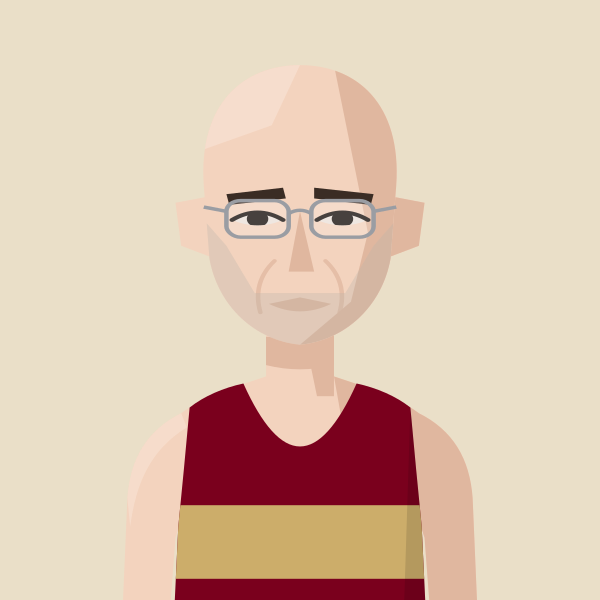
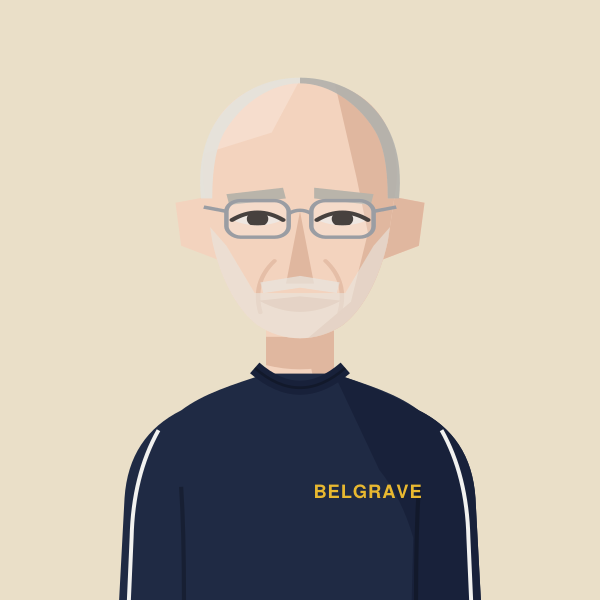
Alan Mead: team-manager portrait in navy Belgrave sweater
Claude-Session: https://claude.ai/code/session_01MgmDWhFqnSSnP4iBLKXUZC

diff --git a/files/index.html b/files/index.html
@@ -887,7 +887,7 @@ const portraitFile=(name,club)=>{const k=normalizeNameForCompare(name||'').repla
 const portraitClubOf=(name,clubs)=>{for(const c of clubs||[]){if(c&&portraitFile(name,c))return c;}return null;}; /* first of these clubs we have a portrait for */
 // Athlete header figure: superstar portrait if we have one, else a grey runner in the club vest, else the plain vest icon
 // Changes whenever any portrait changes (set by tools/build_og.py), so browsers fetch fresh images instead of old cached ones
-const PORTRAIT_V='33d50a44';const PORTRAIT_WOMEN='abbey-brooke,abbie-bulbulian,adele-prince,aimee-hargreaves,aisling-ahern,alex-brown,alex-gandee,alex-marginean,alex-miller,alexa-parker,alexandra-barbour,alice-braham,alice-bridger-morales,alice-crane,alice-martin,alice-reed,alice-smith,alison-purnell,alison-thomson,amelia-pettitt,amy-clements,andrea-barber,anika-schwarze-chintapatla,anna-garnier,anna-garnier-hw,anna-sharp,annabel-hobday,annabelle-hadlow,anne-hegvold,annmarie-seymour,ava-mcandie,becky-briggs,bethan-goddard,bethanie-murray,bethany-brown,betsy-griffiths,billie-mcclosky,camilla-barden,caoimhe-nic-fhogartaigh,carolyne-baxter,catherine-bryson,catherine-eastham,catherine-kandie,cathy-ansell,charlotte-griffiths,chloe-beckett,chloe-tighe,chrissie-wellington,claire-grima,clara-pettit,clare-elms,clare-pauzers,dillan-quinn,dorchie-cockerell,eilidh-hide,elinor-skinner,eliza-grant,elizabeth-apsley,elizabeth-stavreski,ella-fennelly,ella-king-powrie,ella-may-hards,ella-newton,ellen-weir,ellie-brown,ellie-freeden,eloise-bull,emilie-arnoux,emily-barrett,emily-bradley,emily-lowery,emily-robbins,emma-bond,emma-gordon,emma-howsham,emma-lord,emma-rowland,estle-viljoen,evie-warren,felicity-cole,felicity-harrison,felicity-hayward,fi-maddocks,fiona-clark,fiona-de-mauny,florence-wiggins,gabby-collison,gabriel-reynolds,gemma-newport,genevieve-blanch,georgia-curry,georgie-bruinvels,georgie-fenn,georgie-furze,georgie-grgec,gina-galbraith,grace-leyland,grace-richardson,hannah-edwards,hannah-english,hayley-munn,hayley-munn-cc,heather-statham,heather-statham-cc,helen-alsop,helena-corbin,helena-keenan,holly-nixon,holly-pan,imogen-mackie,imogen-wolsey,iona-cousland,isabel-bradley,isabel-brinsden,isabel-hodder,isabelle-pickett,jennifer-nandi,jennifer-smith,jess-reed,jess-saunders,jess-winfield,jessica-davies,jessica-lowe,jodie-favell,jon-hobbs,josephine-rhodes,julia-bleasdale,julia-wedmore,juliet-hodder,juliette-clark,jurgita-levertaviciute,justine-lynch,karen-fenner,karen-xiang,karina-box,kate-axford,kate-williams,kathy-sharpe,katie-ellen-french,katie-good,katie-snowden,katy-hedgethorne,kitty-shepherd-cross,kristina-popadich,lara-bromilow,lara-mangan,laura-goodson,laura-miles,lauren-major,lea-adamson,lily-newton,lisa-bailey,lisa-thomas,lisa-thomas-hw,lizzie-goldie-scot,louise-cooper,lucy-jones,lucy-macalister,lucy-peters,lydia-blackmore,lydia-gallyer-barnett,maddie-mastrolonardo,maddy-whitman,maeve-kenny,margaret-coogan,martina-conner,mary-james,mary-setyabule,matilde-lomba,megan-gildea,mel-wilkins,mhairi-hall,mimi-corden-lloyd,molly-oconnor,molly-smith,monika-gajek,naomi-lenane,natalie-beadle,natalie-seymour,natasha-lodge,niamh-thompson,nicky-hayes,nicola-cartlidge,nicola-douglas,nikki-haines,nikki-sturzaker,nina-mills,olivia-papaioannou,olivia-stillman,orna-mcginley,pamela-mchutchon,patricia-walker,patrizia-gnoato,penny-oliver,rachel-brown,rebecca-barrow,rebekah-edgar,rosie-powell,ruby-carter,ruby-whyte-wilding,ruby-woolfe,sally-urquhart,sally-young,sally-young-slh,sam-whiting,samantha-munday,sarah-astin,sarah-dewhirst,sarah-grover,sarah-hanley,sarah-holt,sarah-murphy,sarah-palmer,sarah-palmer-ran,sarah-riceman,sarah-young,saron-haileselase,serena-carter,sophie-cowper,sophie-harris,sophie-hicks,sophie-tooley,stacey-ward,steph-hewitt,steph-mccall,steph-mccall-cc,steph-mccall-slh,steph-mitchell,suzanne-swaine,suze-spalding,suzie-harvey,suzy-whatmough,syreeta-stracey,teresa-murphy,tilly-heaton,tilly-heaton-bel,tish-jones,vic-cartwright,vicky-clarke,vicky-edwards,victoria-barthelmess,victoria-buck,vikki-filsell,zoe-doyle,zoe-macdonald,zuzana-nemeckova';const PORTRAIT_MEN='aaron-wilson,abdulla-elsadig,adam-leane,adrian-major,adrien-royer,alan-black,alan-mead,alex-brecker,alex-bruce-littlewood,alex-gutteridge,alex-harris,alex-howard,alex-janiaud,alex-lee,alex-lennon,alex-mills,alex-milne,alex-morales,alex-robinson,alex-yee,alexander-marks,amittai-ben-israel,andrew-cumine,andrew-green,andrew-penney,andrew-perfect,andrew-simms,andrew-warburton,andrius-jaksevicius,andy-coley-maud,andy-coley-maud-cc,andy-fyfe,andy-north,andy-paton,andy-weir,angus-butler,angus-lamb,anisse-ismaili,arlo-ludewick,arne-dumez,arthur-peel,ashley-goncalves,barnaby-day,barry-collins,barry-sawyer,ben-clarke,ben-coughlan,ben-harding,ben-hurley,ben-ireland,ben-millar,ben-paviour,ben-pearce,ben-racle,ben-revill,ben-reynolds,ben-scott,ben-toomer,benedict-whitby,benjamin-hilson,bernie-ford,bill-kerr,bill-weller,bill-weller-wal,bob-harrison,bob-holt,bob-lunnon,bob-rayman,bob-smith,bradley-courtney-pinn,brandon-dewar,brian-gorman,brian-wilder,caleb-hathaway,callum-stewart,cameron-dockerill,cameron-reilly,carl-delaney,charles-herrington,charlie-dabbs,charlie-dickinson,charlie-eastaugh,charlie-manning,charlie-pickett,charlie-rogers,charlie-sandison,charlie-walker,charlie-wyllie,che-compton,chris-busaileh,chris-busaileh-hhh,chris-greenwood,chris-keavey,chris-moss,chris-steer,chris-threadgold,chris-warren,christian-lee,christopher-parker,clive-gilby,clive-shippen,colin-high,colin-pearson,conall-mcnally,conall-whelan,craig-ruddy,dame-dibaba,dan-cliffe,dan-pettitt,daniel-shaw,daniel-wolff,darren-mead,dave-beard,dave-beaver,dave-clarke,dave-glassborow,dave-hill,dave-holt,dave-taylor,david-anderson,david-bowers,david-grima,david-north,david-ogden,david-symons,david-walsh,david-williams,deron-fagan,dick-piotrowski,dimos-evangelidis,dom-nolan,dominic-kiralyfi,don-anderson,don-faircloth,don-maclean,doug-maughan,duncan-rimmer,dylan-evans,dylan-mitchard,ed-brewer,ed-catmur,ed-gibson,ed-mallett,ed-prickett,eddie-herridge,eddie-jodrell,eddie-rolls,edward-chuck,eoin-brady,eoin-molloy,ethan-mccolgan,falilou-kebe,findlay-dyer,finn-johnson,fintan-pearce,frank-tickner,frank-ward,fred-paget,fred-slemeck,fred-stebbings,freddie-hessian,garret-lee,gary-ribbons,gary-ribbons-ee,gary-staines,gary-staines-bel,gavin-eccles,geoff-biscoe,geoff-jerwood,geoff-north,george-cotton,george-gathercole,george-jackson,george-loxton,george-mallett,george-ogden,gerry-adams,gerry-north,glen-keegan,gordon-pearce,graham-macky,grenville-tuck,harrison-hayman,harry-guttridge,hector-revill,henry-hart,henry-silverstein,hugo-hewitt,huw-lobb,ian-acreman,ian-crowe-wright,ian-ellwood,ian-harkness,indy-barnes,isaac-lutaya,isaac-parker,jack-brotchie,jack-dickson,jack-dormer,jack-hampshire,jack-harrison,jack-hobden,jack-kavanagh,jack-millar,jack-ramm,jack-woods,jacob-brockmann,jake-simmonds,james-bartram,james-blackwood,james-bowler,james-estall,james-ewing,james-fox,james-hancock,james-harvey,james-hoad,james-kelly,james-mcmullan,james-murray,james-nutt,james-preston,james-roberts,james-stockings,james-ward,james-wootton,jamie-crowe,jamie-parkinson,jared-martin,jean-paul-wright,jeff-cunningham,jeremy-dempsey,jermaine-mays,jerry-watson,jim-allchin,jim-rimmer,joachim-wolf,joe-english,joe-hartley,john-baker,john-bicourt,john-bromley,john-davies,john-dear,john-foss,john-foxall,john-gilbert,john-gladwin,john-hutchins,john-kendall,john-kimaiyo,john-lee,john-lethbridge,john-mather,john-moore,john-roberts,john-sanderson,john-snowden,john-stow,john-sullivan,john-thresher,jon-pepper,jon-pepper-slh,jon-phillips,jon-solly,jonathan-cocker,jonathan-collier,jonathan-cornish,jonathan-ratcliffe,jonathan-tipper,jonny-neville,jonny-scott,jordan-weaver,josh-mitchell,josh-snow,josh-trigwell,jules-gevers,junior-galley,justin-chaston,justin-reid,kassa-tadesse,keith-newton,ken-penney,ken-penney-cro,kevin-nash,kevin-quinn,kevin-sturman,kieran-barnes,kieran-white,knut-hegvold,knut-hegvold-bel,larry-ryan,lawrence-avery,lee-lintern,leo-coy,les-presland,les-presland-sur,lewis-lloyd,liam-burthem,lionel-mann,lloyd-kempson,luke-caldwell,macgregor-cox,mack-downie,malachi-byansi,marcello-bizio,marcelo-fortes,marco-mazzotta,mark-anderson,mark-miles,mark-sinclair,mark-tennyson,mark-waller,martin-dent,martin-duff,martin-lake,martin-lewington,martin-shore,mathew-speed,matt-chaston,matt-jones,matt-wood,matt-yates,matthew-edgar,matthew-houchell,matthew-thomas,matthew-varley,max-bloor,max-heyden,max-milarvie,max-nicholls,michael-baker,michael-mccarthy,mick-gowan,mick-woods,mike-beevor,mike-boyle,mike-cummings,mike-farmery,mike-fuller,mike-hayes,mike-kortenray,mike-nouch,mohammed-ismail,monty-hudson,morgan-roberts,nathan-visick,neil-chisholm,neil-phillips,neil-speaight,neil-wilson,nic-lukies,nick-acfield,nick-altmann,nick-bester,nick-bester-hhh,nick-buckle,nick-bundle,nick-goolab,nick-lightfoot,nick-morris,nick-torry,noah-fernandez,norman-stairs,oli-carrington,oliver-carrington,oliver-fox,oliver-reynolds,oliver-young,ollie-foote,ollie-garrod,olly-buck,owen-hind,paddy-roddy,pancho-panchev,paskar-owor,pat-newell,patrick-mcdougall,paul-calver,paul-cheetham,paul-evans,paul-freary,paul-magner,paul-pollock,paul-sanderson,paul-sanderson-wok,pete-carton,pete-gardner,peter-clarke,peter-giles,peter-giles-thh,peter-lighting,phil-carstairs,phil-sanders,phil-sesemann,phil-swinburn,phil-wicks,phil-woodford-smith,raj-paranandi,ralph-street,ranjit-bhatia,ray-foley,reece-edwards,rhys-boorman,rian-mccawley,richard-ashe,richard-giles,richard-henderson,richard-langley,richard-mcdowell,richard-ollington,richard-partridge,richard-sun,richard-ward,rob-armstrong,rob-kelly,rob-tuer,robert-elphick,robert-laing,robert-norville,robert-peacock,robert-sesemann,robin-boon,robin-hudson,roger-alsop,roger-alsop-bel,roger-hackney,ron-clark,ron-linstead,ronan-tanguy,rory-mcmahon,rory-orsborn,ross-braden,ross-christie,rowan-board,rowan-crichton,russell-dessaix-chin,ryan-hickey,ryan-mccallister,sam-bramwell,sam-charlton,sam-gebreselassie,sam-haughian,sam-peters,sam-sommerville,sam-tyas,samuel-dames,samuel-wilcock,sean-cordon,sebastian-anthony,simon-baines,simon-coombes,simon-coppard,simon-fairbrother,simon-holmes,simon-rayner,simon-rayner-hw,simon-wade,simon-wade-hhh,simon-waterhouse,simon-williams,simon-wurr,sonny-nicoll,spencer-barden,stephen-mcleod,stephen-sharp,steve-badgery,steve-badgery-mit,steve-gardner,steve-jones,steve-smythe,steve-smythe-hhh,stuart-beaney,stuart-major,stuart-major-thh,stuart-mccallum,stuart-paton,terry-booth,thomas-dugre,thomas-gandee,thomas-gardner,thomas-renshaw,tim-alexander,tim-eglen,tim-lawrence,tim-watson,toby-cooke,toby-fletcher,tom-austin,tom-cheetham,tom-conlon,tom-davies,tom-gifford,tom-higgs,tom-jervis,tom-lole,tom-south,tom-thornley,tommy-taylor,tony-binda,tony-fairclough,tony-harran,trevor-hart,trevor-williams,valdis-pauzers,valentin-rigori,vic-maughan,wayne-oxborough,will-cockerell,will-lewis,will-marshall,will-scott,will-stockley,william-gardner,yacin-yusuf,zach-nolan';
+const PORTRAIT_V='cc9dfb6d';const PORTRAIT_WOMEN='abbey-brooke,abbie-bulbulian,adele-prince,aimee-hargreaves,aisling-ahern,alex-brown,alex-gandee,alex-marginean,alex-miller,alexa-parker,alexandra-barbour,alice-braham,alice-bridger-morales,alice-crane,alice-martin,alice-reed,alice-smith,alison-purnell,alison-thomson,amelia-pettitt,amy-clements,andrea-barber,anika-schwarze-chintapatla,anna-garnier,anna-garnier-hw,anna-sharp,annabel-hobday,annabelle-hadlow,anne-hegvold,annmarie-seymour,ava-mcandie,becky-briggs,bethan-goddard,bethanie-murray,bethany-brown,betsy-griffiths,billie-mcclosky,camilla-barden,caoimhe-nic-fhogartaigh,carolyne-baxter,catherine-bryson,catherine-eastham,catherine-kandie,cathy-ansell,charlotte-griffiths,chloe-beckett,chloe-tighe,chrissie-wellington,claire-grima,clara-pettit,clare-elms,clare-pauzers,dillan-quinn,dorchie-cockerell,eilidh-hide,elinor-skinner,eliza-grant,elizabeth-apsley,elizabeth-stavreski,ella-fennelly,ella-king-powrie,ella-may-hards,ella-newton,ellen-weir,ellie-brown,ellie-freeden,eloise-bull,emilie-arnoux,emily-barrett,emily-bradley,emily-lowery,emily-robbins,emma-bond,emma-gordon,emma-howsham,emma-lord,emma-rowland,estle-viljoen,evie-warren,felicity-cole,felicity-harrison,felicity-hayward,fi-maddocks,fiona-clark,fiona-de-mauny,florence-wiggins,gabby-collison,gabriel-reynolds,gemma-newport,genevieve-blanch,georgia-curry,georgie-bruinvels,georgie-fenn,georgie-furze,georgie-grgec,gina-galbraith,grace-leyland,grace-richardson,hannah-edwards,hannah-english,hayley-munn,hayley-munn-cc,heather-statham,heather-statham-cc,helen-alsop,helena-corbin,helena-keenan,holly-nixon,holly-pan,imogen-mackie,imogen-wolsey,iona-cousland,isabel-bradley,isabel-brinsden,isabel-hodder,isabelle-pickett,jennifer-nandi,jennifer-smith,jess-reed,jess-saunders,jess-winfield,jessica-davies,jessica-lowe,jodie-favell,jon-hobbs,josephine-rhodes,julia-bleasdale,julia-wedmore,juliet-hodder,juliette-clark,jurgita-levertaviciute,justine-lynch,karen-fenner,karen-xiang,karina-box,kate-axford,kate-williams,kathy-sharpe,katie-ellen-french,katie-good,katie-snowden,katy-hedgethorne,kitty-shepherd-cross,kristina-popadich,lara-bromilow,lara-mangan,laura-goodson,laura-miles,lauren-major,lea-adamson,lily-newton,lisa-bailey,lisa-thomas,lisa-thomas-hw,lizzie-goldie-scot,louise-cooper,lucy-jones,lucy-macalister,lucy-peters,lydia-blackmore,lydia-gallyer-barnett,maddie-mastrolonardo,maddy-whitman,maeve-kenny,margaret-coogan,martina-conner,mary-james,mary-setyabule,matilde-lomba,megan-gildea,mel-wilkins,mhairi-hall,mimi-corden-lloyd,molly-oconnor,molly-smith,monika-gajek,naomi-lenane,natalie-beadle,natalie-seymour,natasha-lodge,niamh-thompson,nicky-hayes,nicola-cartlidge,nicola-douglas,nikki-haines,nikki-sturzaker,nina-mills,olivia-papaioannou,olivia-stillman,orna-mcginley,pamela-mchutchon,patricia-walker,patrizia-gnoato,penny-oliver,rachel-brown,rebecca-barrow,rebekah-edgar,rosie-powell,ruby-carter,ruby-whyte-wilding,ruby-woolfe,sally-urquhart,sally-young,sally-young-slh,sam-whiting,samantha-munday,sarah-astin,sarah-dewhirst,sarah-grover,sarah-hanley,sarah-holt,sarah-murphy,sarah-palmer,sarah-palmer-ran,sarah-riceman,sarah-young,saron-haileselase,serena-carter,sophie-cowper,sophie-harris,sophie-hicks,sophie-tooley,stacey-ward,steph-hewitt,steph-mccall,steph-mccall-cc,steph-mccall-slh,steph-mitchell,suzanne-swaine,suze-spalding,suzie-harvey,suzy-whatmough,syreeta-stracey,teresa-murphy,tilly-heaton,tilly-heaton-bel,tish-jones,vic-cartwright,vicky-clarke,vicky-edwards,victoria-barthelmess,victoria-buck,vikki-filsell,zoe-doyle,zoe-macdonald,zuzana-nemeckova';const PORTRAIT_MEN='aaron-wilson,abdulla-elsadig,adam-leane,adrian-major,adrien-royer,alan-black,alan-mead,alex-brecker,alex-bruce-littlewood,alex-gutteridge,alex-harris,alex-howard,alex-janiaud,alex-lee,alex-lennon,alex-mills,alex-milne,alex-morales,alex-robinson,alex-yee,alexander-marks,amittai-ben-israel,andrew-cumine,andrew-green,andrew-penney,andrew-perfect,andrew-simms,andrew-warburton,andrius-jaksevicius,andy-coley-maud,andy-coley-maud-cc,andy-fyfe,andy-north,andy-paton,andy-weir,angus-butler,angus-lamb,anisse-ismaili,arlo-ludewick,arne-dumez,arthur-peel,ashley-goncalves,barnaby-day,barry-collins,barry-sawyer,ben-clarke,ben-coughlan,ben-harding,ben-hurley,ben-ireland,ben-millar,ben-paviour,ben-pearce,ben-racle,ben-revill,ben-reynolds,ben-scott,ben-toomer,benedict-whitby,benjamin-hilson,bernie-ford,bill-kerr,bill-weller,bill-weller-wal,bob-harrison,bob-holt,bob-lunnon,bob-rayman,bob-smith,bradley-courtney-pinn,brandon-dewar,brian-gorman,brian-wilder,caleb-hathaway,callum-stewart,cameron-dockerill,cameron-reilly,carl-delaney,charles-herrington,charlie-dabbs,charlie-dickinson,charlie-eastaugh,charlie-manning,charlie-pickett,charlie-rogers,charlie-sandison,charlie-walker,charlie-wyllie,che-compton,chris-busaileh,chris-busaileh-hhh,chris-greenwood,chris-keavey,chris-moss,chris-steer,chris-threadgold,chris-warren,christian-lee,christopher-parker,clive-gilby,clive-shippen,colin-high,colin-pearson,conall-mcnally,conall-whelan,craig-ruddy,dame-dibaba,dan-cliffe,dan-pettitt,daniel-shaw,daniel-wolff,darren-mead,dave-beard,dave-beaver,dave-clarke,dave-glassborow,dave-hill,dave-holt,dave-taylor,david-anderson,david-bowers,david-grima,david-north,david-ogden,david-symons,david-walsh,david-williams,deron-fagan,dick-piotrowski,dimos-evangelidis,dom-nolan,dominic-kiralyfi,don-anderson,don-faircloth,don-maclean,doug-maughan,duncan-rimmer,dylan-evans,dylan-mitchard,ed-brewer,ed-catmur,ed-gibson,ed-mallett,ed-prickett,eddie-herridge,eddie-jodrell,eddie-rolls,edward-chuck,eoin-brady,eoin-molloy,ethan-mccolgan,falilou-kebe,findlay-dyer,finn-johnson,fintan-pearce,frank-tickner,frank-ward,fred-paget,fred-slemeck,fred-stebbings,freddie-hessian,garret-lee,gary-ribbons,gary-ribbons-ee,gary-staines,gary-staines-bel,gavin-eccles,geoff-biscoe,geoff-jerwood,geoff-north,george-cotton,george-gathercole,george-jackson,george-loxton,george-mallett,george-ogden,gerry-adams,gerry-north,glen-keegan,gordon-pearce,graham-macky,grenville-tuck,harrison-hayman,harry-guttridge,hector-revill,henry-hart,henry-silverstein,hugo-hewitt,huw-lobb,ian-acreman,ian-crowe-wright,ian-ellwood,ian-harkness,indy-barnes,isaac-lutaya,isaac-parker,jack-brotchie,jack-dickson,jack-dormer,jack-hampshire,jack-harrison,jack-hobden,jack-kavanagh,jack-millar,jack-ramm,jack-woods,jacob-brockmann,jake-simmonds,james-bartram,james-blackwood,james-bowler,james-estall,james-ewing,james-fox,james-hancock,james-harvey,james-hoad,james-kelly,james-mcmullan,james-murray,james-nutt,james-preston,james-roberts,james-stockings,james-ward,james-wootton,jamie-crowe,jamie-parkinson,jared-martin,jean-paul-wright,jeff-cunningham,jeremy-dempsey,jermaine-mays,jerry-watson,jim-allchin,jim-rimmer,joachim-wolf,joe-english,joe-hartley,john-baker,john-bicourt,john-bromley,john-davies,john-dear,john-foss,john-foxall,john-gilbert,john-gladwin,john-hutchins,john-kendall,john-kimaiyo,john-lee,john-lethbridge,john-mather,john-moore,john-roberts,john-sanderson,john-snowden,john-stow,john-sullivan,john-thresher,jon-pepper,jon-pepper-slh,jon-phillips,jon-solly,jonathan-cocker,jonathan-collier,jonathan-cornish,jonathan-ratcliffe,jonathan-tipper,jonny-neville,jonny-scott,jordan-weaver,josh-mitchell,josh-snow,josh-trigwell,jules-gevers,junior-galley,justin-chaston,justin-reid,kassa-tadesse,keith-newton,ken-penney,ken-penney-cro,kevin-nash,kevin-quinn,kevin-sturman,kieran-barnes,kieran-white,knut-hegvold,knut-hegvold-bel,larry-ryan,lawrence-avery,lee-lintern,leo-coy,les-presland,les-presland-sur,lewis-lloyd,liam-burthem,lionel-mann,lloyd-kempson,luke-caldwell,macgregor-cox,mack-downie,malachi-byansi,marcello-bizio,marcelo-fortes,marco-mazzotta,mark-anderson,mark-miles,mark-sinclair,mark-tennyson,mark-waller,martin-dent,martin-duff,martin-lake,martin-lewington,martin-shore,mathew-speed,matt-chaston,matt-jones,matt-wood,matt-yates,matthew-edgar,matthew-houchell,matthew-thomas,matthew-varley,max-bloor,max-heyden,max-milarvie,max-nicholls,michael-baker,michael-mccarthy,mick-gowan,mick-woods,mike-beevor,mike-boyle,mike-cummings,mike-farmery,mike-fuller,mike-hayes,mike-kortenray,mike-nouch,mohammed-ismail,monty-hudson,morgan-roberts,nathan-visick,neil-chisholm,neil-phillips,neil-speaight,neil-wilson,nic-lukies,nick-acfield,nick-altmann,nick-bester,nick-bester-hhh,nick-buckle,nick-bundle,nick-goolab,nick-lightfoot,nick-morris,nick-torry,noah-fernandez,norman-stairs,oli-carrington,oliver-carrington,oliver-fox,oliver-reynolds,oliver-young,ollie-foote,ollie-garrod,olly-buck,owen-hind,paddy-roddy,pancho-panchev,paskar-owor,pat-newell,patrick-mcdougall,paul-calver,paul-cheetham,paul-evans,paul-freary,paul-magner,paul-pollock,paul-sanderson,paul-sanderson-wok,pete-carton,pete-gardner,peter-clarke,peter-giles,peter-giles-thh,peter-lighting,phil-carstairs,phil-sanders,phil-sesemann,phil-swinburn,phil-wicks,phil-woodford-smith,raj-paranandi,ralph-street,ranjit-bhatia,ray-foley,reece-edwards,rhys-boorman,rian-mccawley,richard-ashe,richard-giles,richard-henderson,richard-langley,richard-mcdowell,richard-ollington,richard-partridge,richard-sun,richard-ward,rob-armstrong,rob-kelly,rob-tuer,robert-elphick,robert-laing,robert-norville,robert-peacock,robert-sesemann,robin-boon,robin-hudson,roger-alsop,roger-alsop-bel,roger-hackney,ron-clark,ron-linstead,ronan-tanguy,rory-mcmahon,rory-orsborn,ross-braden,ross-christie,rowan-board,rowan-crichton,russell-dessaix-chin,ryan-hickey,ryan-mccallister,sam-bramwell,sam-charlton,sam-gebreselassie,sam-haughian,sam-peters,sam-sommerville,sam-tyas,samuel-dames,samuel-wilcock,sean-cordon,sebastian-anthony,simon-baines,simon-coombes,simon-coppard,simon-fairbrother,simon-holmes,simon-rayner,simon-rayner-hw,simon-wade,simon-wade-hhh,simon-waterhouse,simon-williams,simon-wurr,sonny-nicoll,spencer-barden,stephen-mcleod,stephen-sharp,steve-badgery,steve-badgery-mit,steve-gardner,steve-jones,steve-smythe,steve-smythe-hhh,stuart-beaney,stuart-major,stuart-major-thh,stuart-mccallum,stuart-paton,terry-booth,thomas-dugre,thomas-gandee,thomas-gardner,thomas-renshaw,tim-alexander,tim-eglen,tim-lawrence,tim-watson,toby-cooke,toby-fletcher,tom-austin,tom-cheetham,tom-conlon,tom-davies,tom-gifford,tom-higgs,tom-jervis,tom-lole,tom-south,tom-thornley,tommy-taylor,tony-binda,tony-fairclough,tony-harran,trevor-hart,trevor-williams,valdis-pauzers,valentin-rigori,vic-maughan,wayne-oxborough,will-cockerell,will-lewis,will-marshall,will-scott,will-stockley,william-gardner,yacin-yusuf,zach-nolan';
 // Runners whose dog pops up on their own profile page (a -dog.svg version of their portrait)
 const PROFILE_DOGS=new Set(['john-sanderson','penny-oliver','james-hancock','angus-butler']);
 const AthletePortrait=({name,club,w,fill,onClick,blink})=>{const[failed,setFailed]=useState(false);const file=portraitFile(name,club);const src0=file?`/portraits/athletes/${file}.svg?v=${PORTRAIT_V}`:PORTRAIT_CLUBS.has(club)?`/portraits/clubs/${club.replace(/\//g,'').replace(/&/g,'and')}.svg?v=${PORTRAIT_V}`:null;const blinkSrc=useBlinkSrc(file?(PROFILE_DOGS.has(file)?`/portraits/athletes/${file}-dog.svg?v=${PORTRAIT_V}`:src0):null,!!blink);const src=blinkSrc||src0;if(!src||failed)return<div onClick={onClick} className={onClick?'cursor-pointer':''}><ClubShield club={club} size={w}/></div>;const h=Math.round(w*148/126),ih=Math.round(w*1.4);if(fill)return<div onClick={onClick} className="cursor-pointer" style={{alignSelf:'stretch',minHeight:h,aspectRatio:'126 / 148',flexShrink:0,position:'relative',borderRadius:4,overflow:'hidden'}}><img src={src} alt={file?`Portrait of ${name.replace(/\s*\([^)]*\)$/,'')}`:`Runner in ${CLUBS[club]?.name||club} vest`} style={{position:'absolute',top:0,left:0,display:'block',width:'100%',height:'auto'}} onError={()=>setFailed(true)}/></div>;return<div style={{width:w,height:h,borderRadius:4,overflow:'hidden',flexShrink:0}}><img src={src} alt={file?`Portrait of ${name.replace(/\s*\([^)]*\)$/,'')}`:`Runner in ${CLUBS[club]?.name||club} vest`} width={w} height={ih} style={{display:'block',width:w,height:ih}} onError={()=>setFailed(true)}/></div>;};

diff --git a/tools/gen_portraits.py b/tools/gen_portraits.py
@@ -2172,4 +2172,25 @@ def _mcmullan():
     s = figure("THH", skin=1, hair="shaggyside", hair_colour="#6B4A30", brow_colour="#4E3626", facial="stubble", facial_colour="#6B4A30")
     return nose(eyes(s.replace('Z" opacity=".32"/>', 'Z" opacity=".2"/>', 1), None, 0), 1.05, 1.15)
 save("james-mcmullan", _mcmullan())
+# ---- Lower dome + crew-neck club sweater (Oct 2026, first used for Alan Mead as team manager) ----
+import re as _rdm
+def domeflat(svg, k):
+    """Lower the top of the head (and hair) toward the brow line by k (k<1 = smaller forehead). Only touches path/polygon coordinates above y 96."""
+    fix = lambda a: _rdm.sub(r'(-?\d+\.?\d*),(-?\d+\.?\d*)', lambda m: f"{m.group(1)},{(96-(96-float(m.group(2)))*k) if float(m.group(2))<96 else float(m.group(2)):g}", a)
+    return _rdm.sub(r'( (?:d|points)=")([^"]*)(")', lambda m: m.group(1)+fix(m.group(2))+m.group(3), svg)
+def crewsweater(svg, rib, stripe="#F2F2F0", text=None, text_col="#E8B830"):
+    """Turn a jacket=() quarter-zip into a crew-neck sweater: drops the zip and collars, adds a ribbed neckline, a thin stripe down each sleeve and optional small chest text (wearer's left breast)."""
+    svg = _rdm.sub(r'<path d="M86,182 L114,182 L100,208 Z"[^>]*/><path d="M86,182 L93,192[^>]*/>', '', svg)
+    svg = _rdm.sub(r'<path d="M80,180 Q86,182 91,184 L100,212 L82,200 Z"[^>]*/><path d="M120,180[^>]*/>', '', svg)
+    svg = _rdm.sub(r'<path d="M80,180 Q86,182 91,184 L92,188[^>]*/>', '', svg)
+    svg = _rdm.sub(r'<path d="M100,212 L100,330"[^>]*/><rect x="97.6"[^>]*/>', '', svg)
+    extra = (f'<path d="M84,190 Q100,204 116,190" stroke="{rib}" stroke-width="5" fill="none"/>'
+             '<path d="M84,190 Q100,204 116,190" stroke="#000" stroke-opacity=".25" stroke-width="1" fill="none"/>'
+             f'<path d="M50,212 Q41,228 40.5,250 L37,330 M150,212 Q159,228 159.5,250 L163,330" stroke="{stripe}" stroke-width="1.4" fill="none"/>'
+             + (f'<text x="124" y="236" text-anchor="middle" font-family="Helvetica, Arial, sans-serif" font-weight="bold" font-size="6.5" letter-spacing=".4" fill="{text_col}">{text}</text>' if text else ''))
+    m = _rdm.search(r'<path d="M58,232 Q60,262 58,330 M142,232[^>]*/>', svg)
+    return svg[:m.end()] + extra + svg[m.end():] if m else svg
+# Alan Mead (BEL), Oct 2026: team-manager portrait (replaces his runner's one) in his navy Belgrave sweater with a thin white stripe down the sleeves
+# and small yellow BELGRAVE on the chest; bald with white hair round the temples, short white beard, thin glasses, nasolabial creases, strong chin, smiling
+save("alan-mead", domeflat(crewsweater(nose(eyes(widesmile(figure("BEL", skin=1, hair="closebald", hair_colour="#E4E2DC", brow_colour="#B9B4AA", facial="shortbeard", facial_colour="#E8E6E0", glasses=True, creases=True, jaw="broadchin", jacket=("#1F2A44", "#18213A", None))), None, 0), 1.1, 1.2), "#18213A", text="BELGRAVE"), .88))
 export_site()
